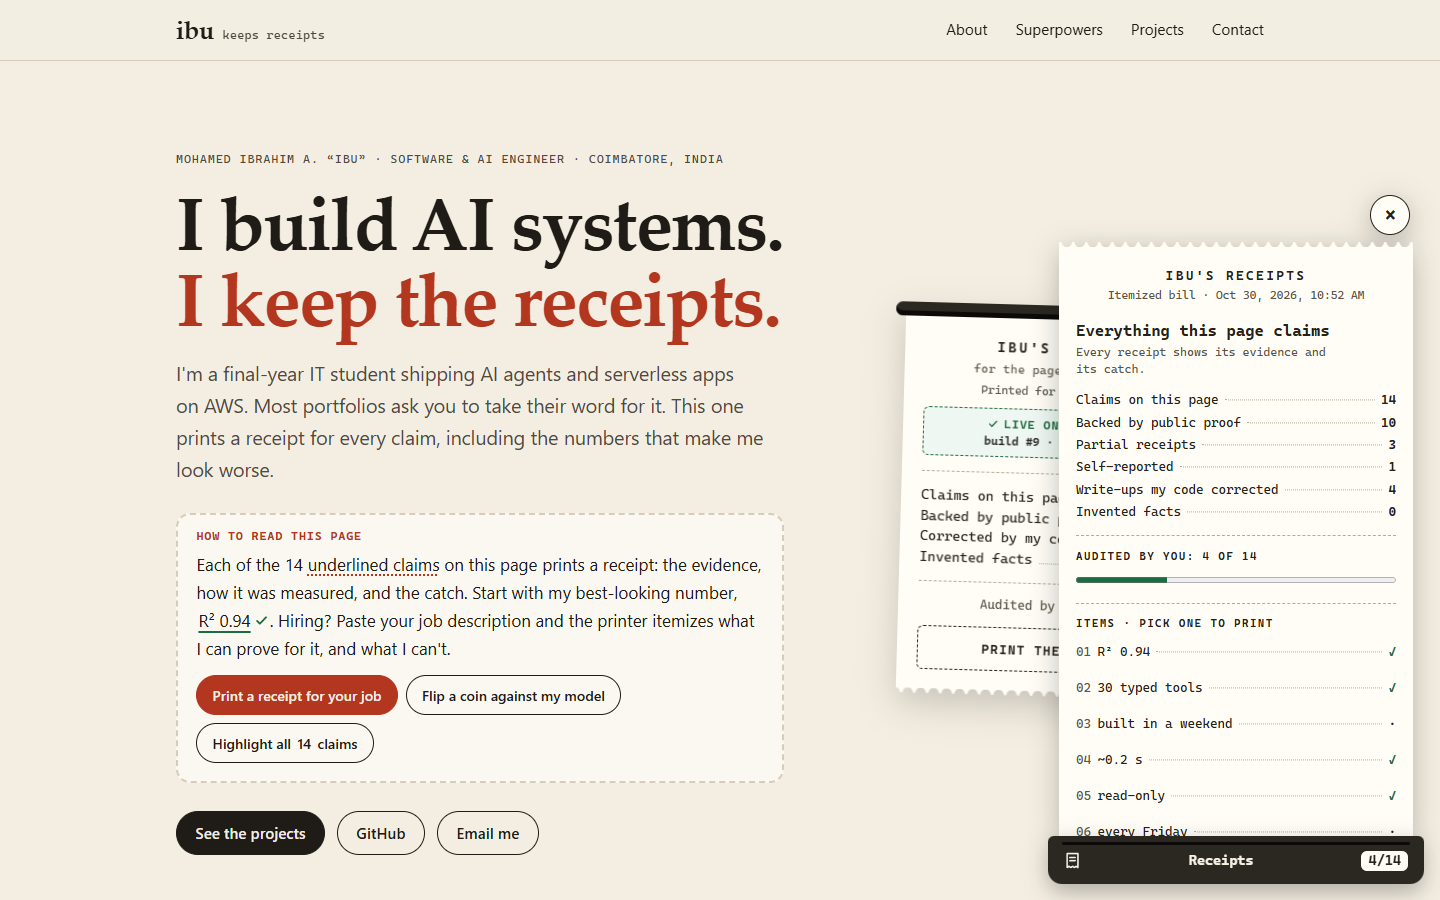
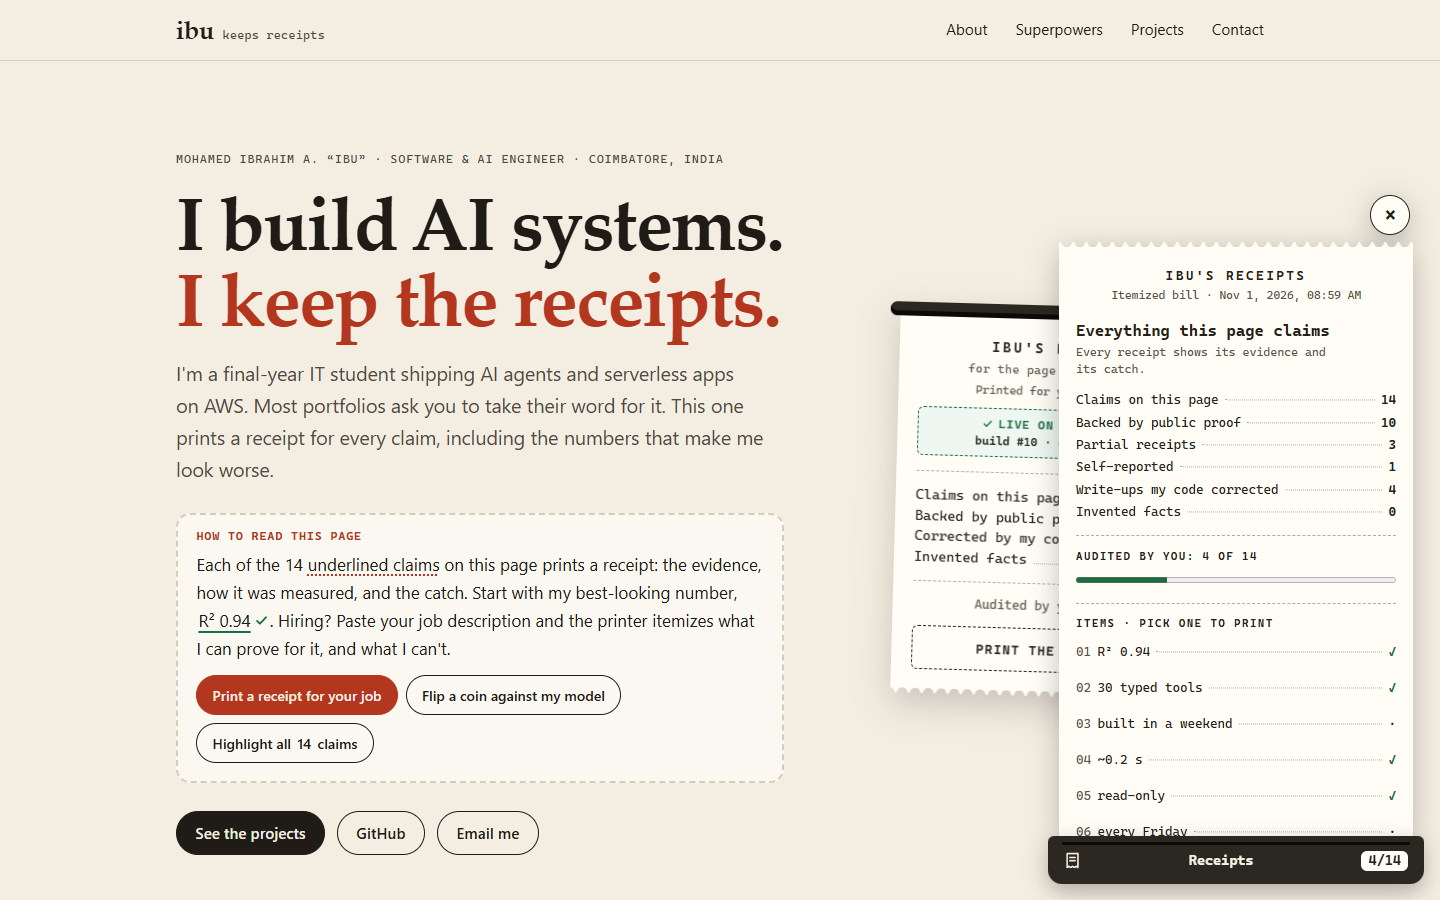
Screenshots and docs from build #10, with the scroll motion [skip-cd]
Website shots re-captured from the live build #10, plus three new ones: a
desktop frame mid-scroll (scissors, stamp, printing title), the visit receipt
stamped Read in full, and the same scroll moment on a phone. The README and
write-up describe the scroll motion, and the page-weight figures are
re-measured (first load about 91 KB on a desktop, 110 KB on a phone).

diff --git a/PROJECT_WRITEUP.md b/PROJECT_WRITEUP.md
@@ -28,14 +28,17 @@ So for this challenge I asked: what if my portfolio followed the same rule? The 
 - **A receipt for your job.** Paste a job description, or pick one of three samples, and the printer itemizes it against what I can prove. Each requirement prints as **Proven** (with a link to the exact file and line, at a pinned commit), **Partial** (with the reason) or **No receipt** ("I won't claim this"). It reads must-haves and nice-to-haves from the description's own headings, and it runs entirely in the browser: nothing you paste is sent or saved.
 - **Coin vs. model.** The first screen has a **Flip a coin against my model** button. It prints the CryptoPulse receipt and races a coin, flipped 100 times, against my model's 47.93%. The coin often wins, and the receipt says so.
 - **The itemized bill.** The printer tab opens a summary: 14 claims, how many are backed by public proof, partial or self-reported, write-ups the code corrected, invented facts (0), and how many receipts *you* have audited.
-- **The page's own receipt.** On the first screen, the hero receipt shows which Amplify build and commit you're looking at ("Live on AWS Amplify · build #9 · commit cf4c242"). Click that, or the footer's "deployed on AWS Amplify", and you get the full receipt: app, branch, build number and commit, written into the page by the Amplify build at deploy time. I didn't type them. AWS did.
+- **The page's own receipt.** On the first screen, the hero receipt shows which Amplify build and commit you're looking at ("Live on AWS Amplify · build #10 · commit 13c01dc"). Click that, or the footer's "deployed on AWS Amplify", and you get the full receipt: app, branch, build number and commit, written into the page by the Amplify build at deploy time. I didn't type them. AWS did.
 - **Re-check it yourself.** Every receipt ends with **Re-check with AWS Lambda**. A Lambda fetches that receipt's evidence from GitHub, at the exact commit it cites, and checks it again while you watch. For example, it confirms the registry still holds 30 tool schemas and the notebook still prints 47.93%. On the page's own receipt, it asks the AWS Amplify API which build is live, and the page confirms it was built by that exact build.
+- **The page prints itself as you scroll.** Scissors cut each section's top edge into a perforation, section numbers are stamped, titles print line by line, cards feed up a beat apart, and my email address types itself. It's all CSS scroll-driven animation, so the scroll position is the clock and nothing waits on a script. On wide screens, a little receipt in the margin prints a line for each section you stay to read, and stamps "Read in full" at the end.
 
 ![A job receipt for a sample cloud intern role: TypeScript, Amazon S3 and CI/CD proven with links to the exact file and line, and DynamoDB printed as No receipt](https://raw.githubusercontent.com/MdIbuA/ibu-receipts/main/docs/screenshots/22-job-receipt.png)
 
 ![Captured at build #8: the page's own receipt (build #8, commit 6dd2cda) next to Amplify's build #8, whose log prints the same commit](https://raw.githubusercontent.com/MdIbuA/ibu-receipts/main/docs/screenshots/07-site-receipt-vs-console.png)
 
 ![Re-check on the page's own receipt: the AWS Amplify API reports the live build, and the page confirms it was built by that exact build](https://raw.githubusercontent.com/MdIbuA/ibu-receipts/main/docs/screenshots/21-site-recheck-aws.png)
+
+![Mid-scroll: scissors finish cutting the Superpowers section's top edge while its number is stamped and its title prints](https://raw.githubusercontent.com/MdIbuA/ibu-receipts/main/docs/screenshots/24-scroll-motion.png)
 
 **How you find it in ten seconds.** The first screen has a dashed **"How to read this page"** box that names the first claim to try (`R² 0.94`, which pulses a few times to catch your eye), a receipt-shaped **stub** that prints itself out of a little printer slot the first time you see it ("Printed for you at 10:42"), stamped with the live Amplify build, and a printer **tab** in the corner reading `0/14`. Three buttons sit in the hint: **Print a receipt for your job**, **Flip a coin against my model** and **Highlight all 14 claims**.
 
@@ -108,8 +111,9 @@ There's no database: nothing here needs state, and CloudWatch already keeps the 
 - **Types can keep a promise.** "A verified receipt cites evidence" used to be a rule I had to remember. As a type, the compiler keeps it for me, and a test file of dishonest receipts proves the compiler still refuses them.
 - **The deploy can testify for itself.** Amplify's build variables let the page show which build and commit it came from, which is more convincing than any "hosted on AWS" badge.
 - **A playful feature still has to be a good citizen.** I made it a non-modal panel instead of a modal, returned focus on Escape, supported reduced motion, and gave visitors without JavaScript plain links. The fun layer can't cost a recruiter anything.
+- **Motion should follow the reader, not a timer.** Tying every animation to the scroll position means nothing plays while you aren't looking and nothing waits on a script, and a visitor who prefers reduced motion, or whose browser can't do it, simply gets the finished page.
 - **A backend can be tiny and still earn its place.** One route and one Lambda add the one thing a static page can't do: an independent, live check that the evidence still says what the receipt claims.
-- **Small is fast.** A visitor's first load is about 87 KB over the wire on a desktop (110 KB on a phone, which gets a sharper photo), and my photo is the biggest file in it. System fonts and inline SVG did the design work, and the TypeScript compiles to plain modules, with no framework to download.
+- **Small is fast.** A visitor's first load is about 91 KB over the wire on a desktop (110 KB on a phone, which gets a sharper photo), and my photo is the biggest file in it. System fonts and inline SVG did the design work, and the TypeScript compiles to plain modules, with no framework to download.
 
 ## Challenges and how I solved them
 
@@ -119,7 +123,8 @@ There's no database: nothing here needs state, and CloudWatch already keeps the 
 | On phones the receipt sheet covers most of the screen | It never covers the header nav, and it closes as soon as you tap a section link |
 | GitHub can't deep-link a notebook cell | The receipt links the notebook and names the cell ("Evaluating Model") |
 | A section highlight in the nav stuck after scrolling back to the top | Clear the current section when it leaves the viewport band, not only when another enters |
-| The print animation is fun once and annoying for some people | `prefers-reduced-motion` disables printing, stamping and pulsing in both CSS and JS |
+| The print animation is fun once and annoying for some people | `prefers-reduced-motion` disables printing, stamping, pulsing and every scroll animation, in both CSS and JS |
+| Scroll animations that end partway through an element's journey never finish for the last lines on a tall screen, because the page can't scroll that far | Every animation ends a fixed distance after its element enters. A test scrolls the page at six screen sizes and fails if anything is unfinished at the bottom, or makes a phone scroll sideways |
 | Amplify's first build reported its commit as `HEAD`, so the site's receipt printed "HEAD" instead of a hash | The stamp script now resolves anything that isn't a full hash with `git rev-parse HEAD` in the build's clone |
 | On a 360px phone, the floating receipts tab sat on top of the hint's buttons on the first screen | The tab tucks away while the hint is on screen and comes back once you scroll past it |
 | An accessibility scan (axe) flagged the hero receipt as an `<aside>` nested inside another landmark | Made it a labelled group; axe now reports zero issues at phone and desktop sizes |
@@ -132,6 +137,7 @@ There's no database: nothing here needs state, and CloudWatch already keeps the 
 | I wanted Amazon Nova Micro on Bedrock to read job descriptions more closely than patterns can, but Bedrock answers "Operation not allowed" for every model on my new account | Shipped the browser reader, which needs no backend. The Bedrock reader (its own least-privilege Lambda, with every quote checked against the description) is built and tested on the [`bedrock-reader`](https://github.com/MdIbuA/ibu-receipts/tree/bedrock-reader) branch, ready for when my account can use Bedrock |
 | Some local servers send `.js` as `text/plain`, and browsers refuse to run ES modules that way | A zero-dependency `npm run serve` that sends the right type |
 | WCAG 2.2's target-size rule flagged the job receipt's small evidence links | Every link and button keeps a 24px target; axe reports zero issues with the job receipt open |
+| CI went red once because YouTube rate-limited the evidence check on GitHub's runner (HTTP 429), though no link was broken | The check now retries rate limits the way it retries server errors, honouring `Retry-After`, and asks for each link once |
 
 ## Links
 

diff --git a/README.md b/README.md
@@ -28,8 +28,9 @@ What else it does:
 - **A receipt for your job.** Paste a job description, or pick one of three samples, and the printer itemizes it against what I can prove. Every requirement it recognises prints as **Proven** (linked to the exact file and line, at a pinned commit), **Partial** (with the reason) or **No receipt** ("I won't claim this"). It reads must-haves and nice-to-haves from the description's own headings. It runs entirely in the browser; nothing you paste is sent or saved. A closer reading by Amazon Nova Micro on Bedrock is built and tested on the [`bedrock-reader`](https://github.com/MdIbuA/ibu-receipts/tree/bedrock-reader) branch, waiting on Bedrock access for my account.
 - **Coin vs. model.** A **Flip a coin against my model** button on the first screen prints the CryptoPulse receipt and flips a coin 100 times against my LSTM's 47.93% direction accuracy. The coin often wins, and the receipt says so.
 - **The itemized bill.** A summary receipt with claims verified, partial and self-reported, write-ups corrected, invented facts (0), and how many receipts *you* have audited.
-- **The page's own receipt.** The hero receipt shows which Amplify build and commit you're looking at (for example "Live on AWS Amplify · build #9 · commit cf4c242"). That line, and the footer claim "deployed on AWS Amplify", print a receipt the Amplify build writes at deploy time: app, branch, build number and commit. I don't write those numbers. AWS does.
+- **The page's own receipt.** The hero receipt shows which Amplify build and commit you're looking at (for example "Live on AWS Amplify · build #10 · commit 13c01dc"). That line, and the footer claim "deployed on AWS Amplify", print a receipt the Amplify build writes at deploy time: app, branch, build number and commit. I don't write those numbers. AWS does.
 - **Re-check it yourself.** Every receipt ends with **Re-check with AWS Lambda**. A Lambda behind API Gateway fetches the evidence from GitHub at the pinned commit and runs that claim's checks again, live. There are 31 checks across 13 claims. On the page's own receipt, it asks the Amplify API which build is live.
+- **The page prints itself as you scroll.** Scissors cut each section's top edge into a perforation, section numbers are stamped and titles print line by line, cards feed up a beat apart, proof lines get a highlighter pass and the email address types itself. It's all CSS scroll-driven animation (`site/assets/motion.css`): the scroll position is the clock, so no script decides what shows, and reduced-motion visitors and older browsers get the finished page. On screens 1440px and wider, a small receipt in the margin prints a line for each section you stay to read.
 
 ### Why this is me
 
@@ -47,18 +48,18 @@ It never blocks the page. The receipt panel is non-modal and docked to the side,
 
 - Claims become real `<button>`s with accessible names ("R² 0.94, show receipt"). Enter or Space opens a receipt, focus moves to the receipt's title, and Escape closes it and returns focus to the claim.
 - The receipt panel is a labelled, non-modal `role="dialog"`; evidence links announce that they open a new tab.
-- `prefers-reduced-motion` turns off the printing, stamping and nudge animations (in CSS and JS).
+- `prefers-reduced-motion` turns off the printing, stamping and nudge animations and every scroll animation (in CSS and JS). Keyboard focus never lands on a half-drawn card: anything holding focus skips straight to its finished state.
 - Text contrast meets WCAG AA in both light and dark themes. Receipt paper stays light in both, so receipt text keeps its contrast.
 - The job receipt is a labelled form (Ctrl+Enter prints). Each result line says its status in words (Proven, Partial, No receipt), never by colour or ✓/✗ alone, and every link and button keeps a 24px target (WCAG 2.2).
 - The portrait has alt text; decorative icons and barcodes are `aria-hidden`.
-- Tested at 360px wide, with no horizontal scrolling, and with axe: no violations of WCAG 2.2 AA or best practice, with a receipt, the job form or a job receipt open.
+- Tested at 360px wide, with no horizontal scrolling at any scroll position, and with axe: no violations of WCAG 2.2 AA or best practice, with a receipt, the job form or a job receipt open, and at the top and bottom of the page.
 
 ## Project structure
 
 ```
 .
 ├── src/                          ← TypeScript, compiled into site/ with the same layout
-│   ├── assets/site.ts            highlights the nav link for the section on screen
+│   ├── assets/site.ts            highlights the nav link on screen; prints the visit receipt
 │   └── feature/receipts/         ← the creative feature
 │       ├── types.ts              the receipts' honesty rules, as types
 │       ├── claims.ts             every claim: evidence, measurement, catch, correction
@@ -71,7 +72,7 @@ It never blocks the page. The receipt panel is non-modal and docked to the side,
 │       └── main.ts …             wiring, re-check, coin race, the hero stub
 ├── site/                         ← everything Amplify publishes (baseDirectory)
 │   ├── index.html                About · Superpowers · Projects & achievements · Contact
-│   ├── assets/                   site.css, images (the .js is compiled, never committed)
+│   ├── assets/                   site.css, motion.css (scroll animations), images (the .js is compiled, never committed)
 │   └── feature/receipts/         receipts.css; build-info.js (written by the Amplify build)
 ├── test/                         unit tests (node:test) and type-level tests (types.check.ts)
 ├── scripts/
@@ -100,7 +101,7 @@ The site is TypeScript 7 under every strict flag, compiled by `tsc` into plain E
 - **The evidence is re-read** (`npm run evidence`): every file the skill map points at is fetched at its pinned commit, and its line must still show the named text.
 - **Nothing ships unchecked.** The Amplify build runs the type check and the tests before it compiles anything, so a broken rule stops the deploy. GitHub Actions runs the same on every push, plus the evidence check.
 
-Everything the site ships totals about 370 KB, mostly images (my portrait and the link-preview card). A visitor's first load is about 87 KB over the wire on a desktop and 110 KB on a phone. The JavaScript is 28 KB gzipped, and the browser fetches every module at once through `modulepreload` hints.
+Everything the site ships totals 376 KB, mostly images (my portrait and the link-preview card). A visitor's first load is about 91 KB over the wire on a desktop and 110 KB on a phone. The JavaScript is 33 KB compressed, and the browser fetches every module at once through `modulepreload` hints. The scroll animations are one 3 KB stylesheet, with no script.
 
 ## Run it locally
 
@@ -156,7 +157,8 @@ Link evidence with **commit permalinks** (on GitHub, open the file and press `y`
 | | |
 |---|---|
 | ![Desktop: a printed receipt](docs/screenshots/10-feature-receipt-desktop.png) | ![Mobile: the receipt as a bottom sheet](docs/screenshots/11-feature-receipt-mobile.png) |
-| ![The itemized bill](docs/screenshots/12-feature-bill.png) | ![The page's own receipt, written by the Amplify build: build #9, commit cf4c242](docs/screenshots/15-live-site-receipt.png) |
+| ![The itemized bill](docs/screenshots/12-feature-bill.png) | ![The page's own receipt, written by the Amplify build: build #10, commit 13c01dc](docs/screenshots/15-live-site-receipt.png) |
+| ![Mid-scroll: scissors finish cutting the Superpowers section's top edge while its number is stamped and its title prints](docs/screenshots/24-scroll-motion.png) | ![The visit receipt in the margin after reading every section: Read in full](docs/screenshots/25-visit-tape.png) |
 | ![A job receipt: proven skills linked to the exact file and line, and DynamoDB printed as No receipt](docs/screenshots/22-job-receipt.png) | ![A job receipt's totals on a phone, stamped 11 of 17 proven](docs/screenshots/23-job-receipt-mobile.png) |
 
 ## Credits

diff --git a/SCREENSHOTS.md b/SCREENSHOTS.md
@@ -2,7 +2,7 @@
 
 Save each one as a PNG in `docs/screenshots/` with exactly this filename. README.md and PROJECT_WRITEUP.md already point at these names.
 
-**Status (Oct 30): all 23 are captured.** The website shots (#8–15, #20–23) come from the live site at build #9 (headless Chrome, light mode; desktop 1440×900, phone 360×740 at 2×). The AWS console shots (#1–7, #16–19) were taken on Oct 30 in a signed-in console window, with the account ID masked in the page before each capture.
+**Status (Nov 1): all 26 are captured.** The website shots (#8–15, #20–26) come from the live site at build #10 (headless Chrome, light mode; desktop 1440×900, phone 360×740 at 2×). The AWS console shots (#1–7, #16–19) were taken on Oct 30 in a signed-in console window, with the account ID masked in the page before each capture.
 
 **Keep the build numbers consistent.** Screenshot-only pushes don't change the site, so end their commit message with `[skip-cd]`. Amplify then skips the build, and the live receipt keeps showing the same build as your console screenshots:
 
@@ -47,6 +47,16 @@ git push
 |---|---|---|---|
 | 22 | `22-job-receipt.png` | Live site → `#job-cloud-intern` | A job receipt for the sample cloud intern role: proven lines with their file:line links, and at least one **No receipt** line. **Captured.** |
 | 23 | `23-job-receipt-mobile.png` | Device mode 360 → `#job-ml-engineer`, scrolled to the end | The totals (Proven, Partial, No receipt, Invented 0) and the "N of M proven" stamp. **Captured.** |
+
+## The scroll motion
+
+The animations run on the scroll position, so each shot is a frame taken at an exact scroll offset.
+
+| # | File | Where | Must be visible |
+|---|---|---|---|
+| 24 | `24-scroll-motion.png` | Desktop, scrolled until the Superpowers section's top edge is 230px above the bottom | The scissors near the end of their cut along the dashed perforation, `02` stamped, and the title half printed. **Captured.** |
+| 25 | `25-visit-tape.png` | Desktop at 1440px: stay on each section for two seconds, then scroll to the end | The visit receipt in the left margin: `01 About` to `04 Contact`, each ticked, stamped **Read in full**. **Captured.** |
+| 26 | `26-scroll-motion-mobile.png` | Device mode 360, About's top edge three quarters of the way down the screen | The scissors mid-cut on a phone, `01` stamped and "About me" printing, with no sideways scrolling. **Captured.** |
 
 ## The live portfolio (proves completeness and usability)
 
